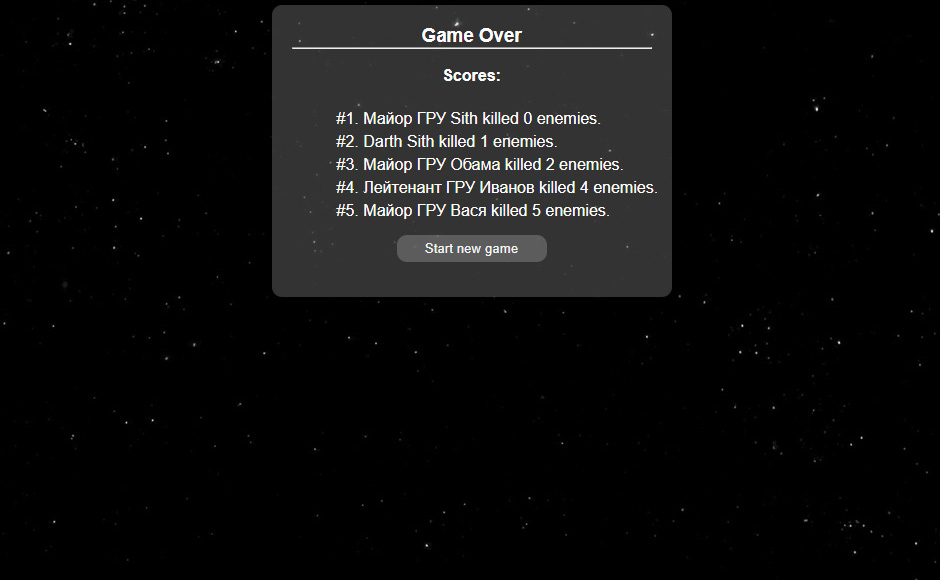
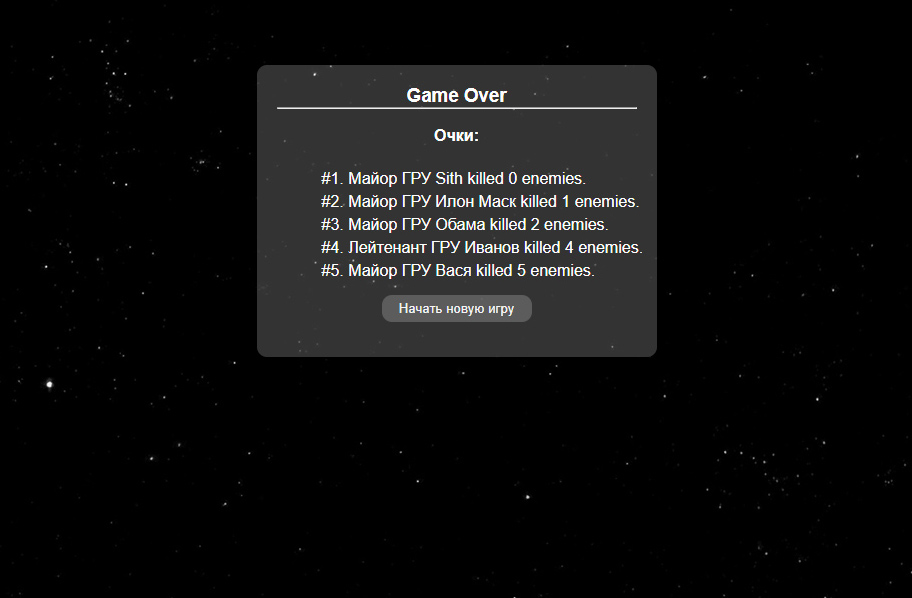
make new preview images

Changed region(s): [[0.2763, 0.0, 0.7368, 0.6207], [0.0307, 0.6207, 0.0614, 0.6517]]

diff --git a/assets/css/animation.css b/assets/css/animation.css
@@ -296,11 +296,11 @@
 
 
   .player-dead {
-    background: url(../images/player/cc_player_dying_strip1.png) no-repeat 0 0;
+    background: url(../images/player/cc_player_dying_strip.png) no-repeat 0 0;
     -webkit-animation-name: PlayerDead;
     margin-left: 150px;
     width: 132px;
-    -webkit-animation-duration: 1000ms !important;
+    -webkit-animation-duration: 100ms !important;
     -webkit-animation-iteration-count: 1 !important;
   }
 

diff --git a/index.html b/index.html
@@ -18,7 +18,7 @@
       <hr>
       <div id="checkinBlock" class="form-block">
         <form id="loginForm">          
-          <input id="inputName" value="Sith" placeholder="Your name*" class="form-input" required>
+          <input id="inputName" value="" placeholder="Ваше имя*" class="form-input" required>
           <button id="btnStart" type="submit" class="button">Начать игру</button>
         </form>
       </div>

diff --git a/assets/css/about.css b/assets/css/about.css
@@ -179,7 +179,7 @@ body {
 
 .component-info {
   width: 700px;
-  height: 472px;
+  height: 480px;
   float: left;
   user-select: none;
   display: none;
@@ -232,8 +232,9 @@ body {
 
 
 .component-nav {
-    width: 180px;
+    width: 250px;
     margin: 0px auto;
+    padding-top: 25px;
 }
 
 .component-disable {

diff --git a/assets/css/style.css b/assets/css/style.css
@@ -107,9 +107,6 @@ body {
   display: block;
 }
 
-.menuGame {
-
-}
 
 .form-block {
   display: none;
@@ -229,9 +226,6 @@ body {
 
 
 
-
-
-
 .task-modal-window {
   width: 1000px;
   height: 100%;
@@ -332,10 +326,6 @@ body {
 .score-list ul li {
   padding-top: 5px;
 }
-
-
-
-
 
 
 

diff --git a/README.md b/README.md
@@ -12,7 +12,3 @@
 
 ## Author: 
 Kashapov Andrey
-
-## License
-This project is licensed under the MIT License - see the [LICENSE.md](LICENSE.md) file for details
-
